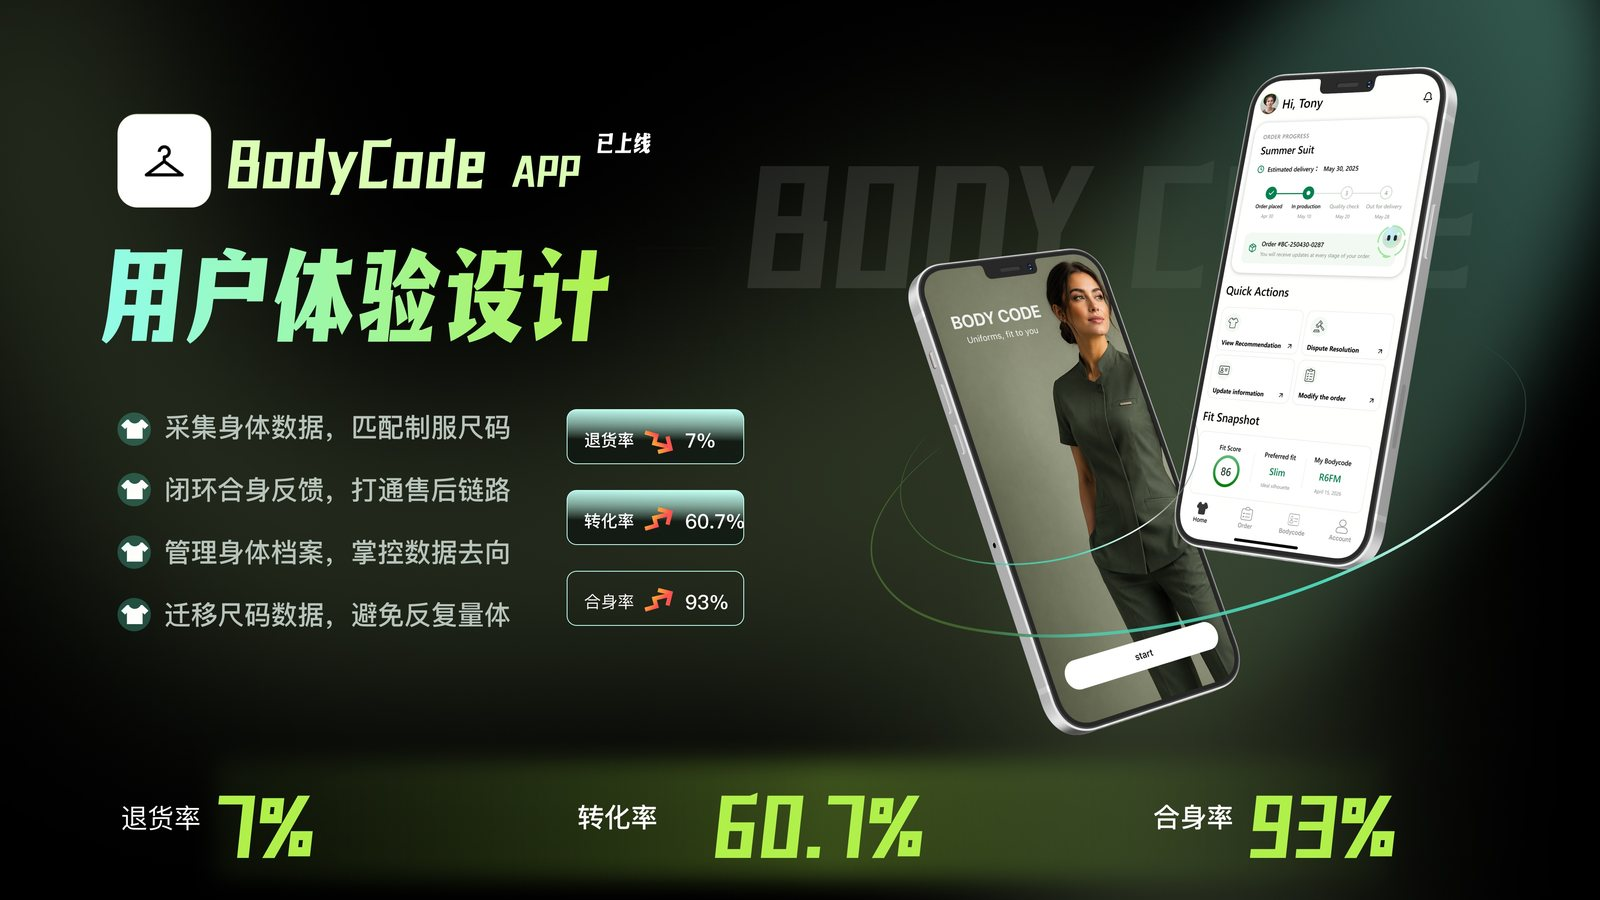
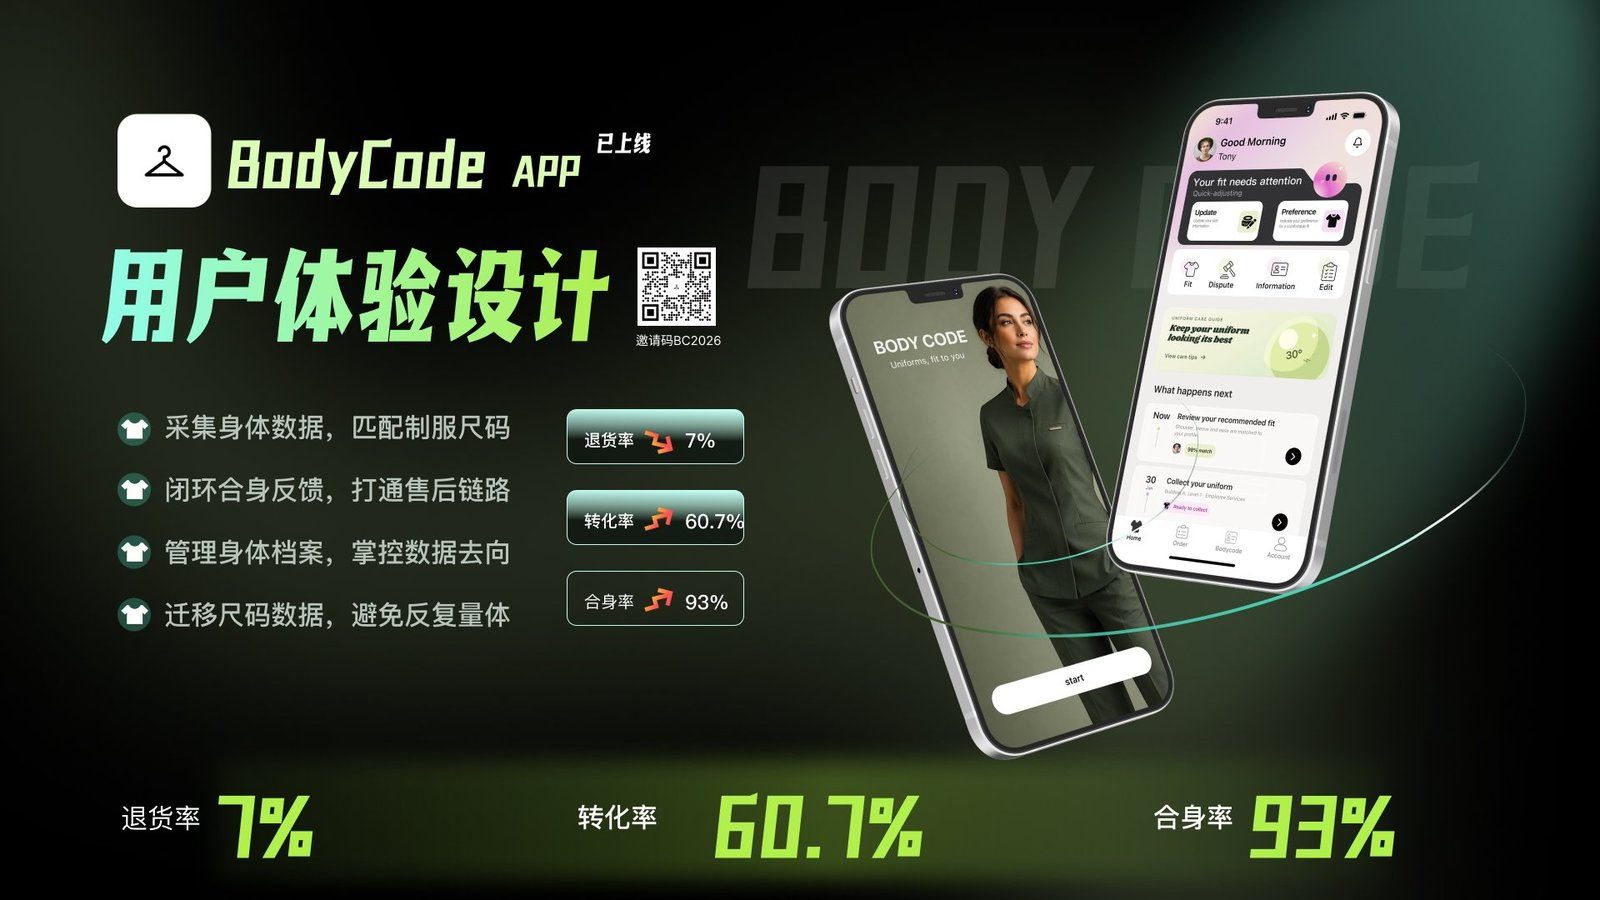
Refresh the Body Code home card cover from the new page 01

Changed region(s): [[0.5, 0.0622, 0.9375, 0.84], [0.375, 0.2489, 0.4688, 0.4044]]

diff --git a/index.html b/index.html
@@ -346,7 +346,7 @@
       <ul class="projects-grid">
         <li class="project-card" data-aos="fade-up" data-aos-delay="0">
           <div class="project-card-media">
-            <img src="src/jpg/bodycode-cover.jpg?v=6" alt="Bodycode App cover" loading="lazy" style="view-transition-name: bodycode-cover" />
+            <img src="src/jpg/bodycode-cover.jpg?v=7" alt="Bodycode App cover" loading="lazy" style="view-transition-name: bodycode-cover" />
           </div>
           <div class="project-card-body">
             <div class="project-card-head">
